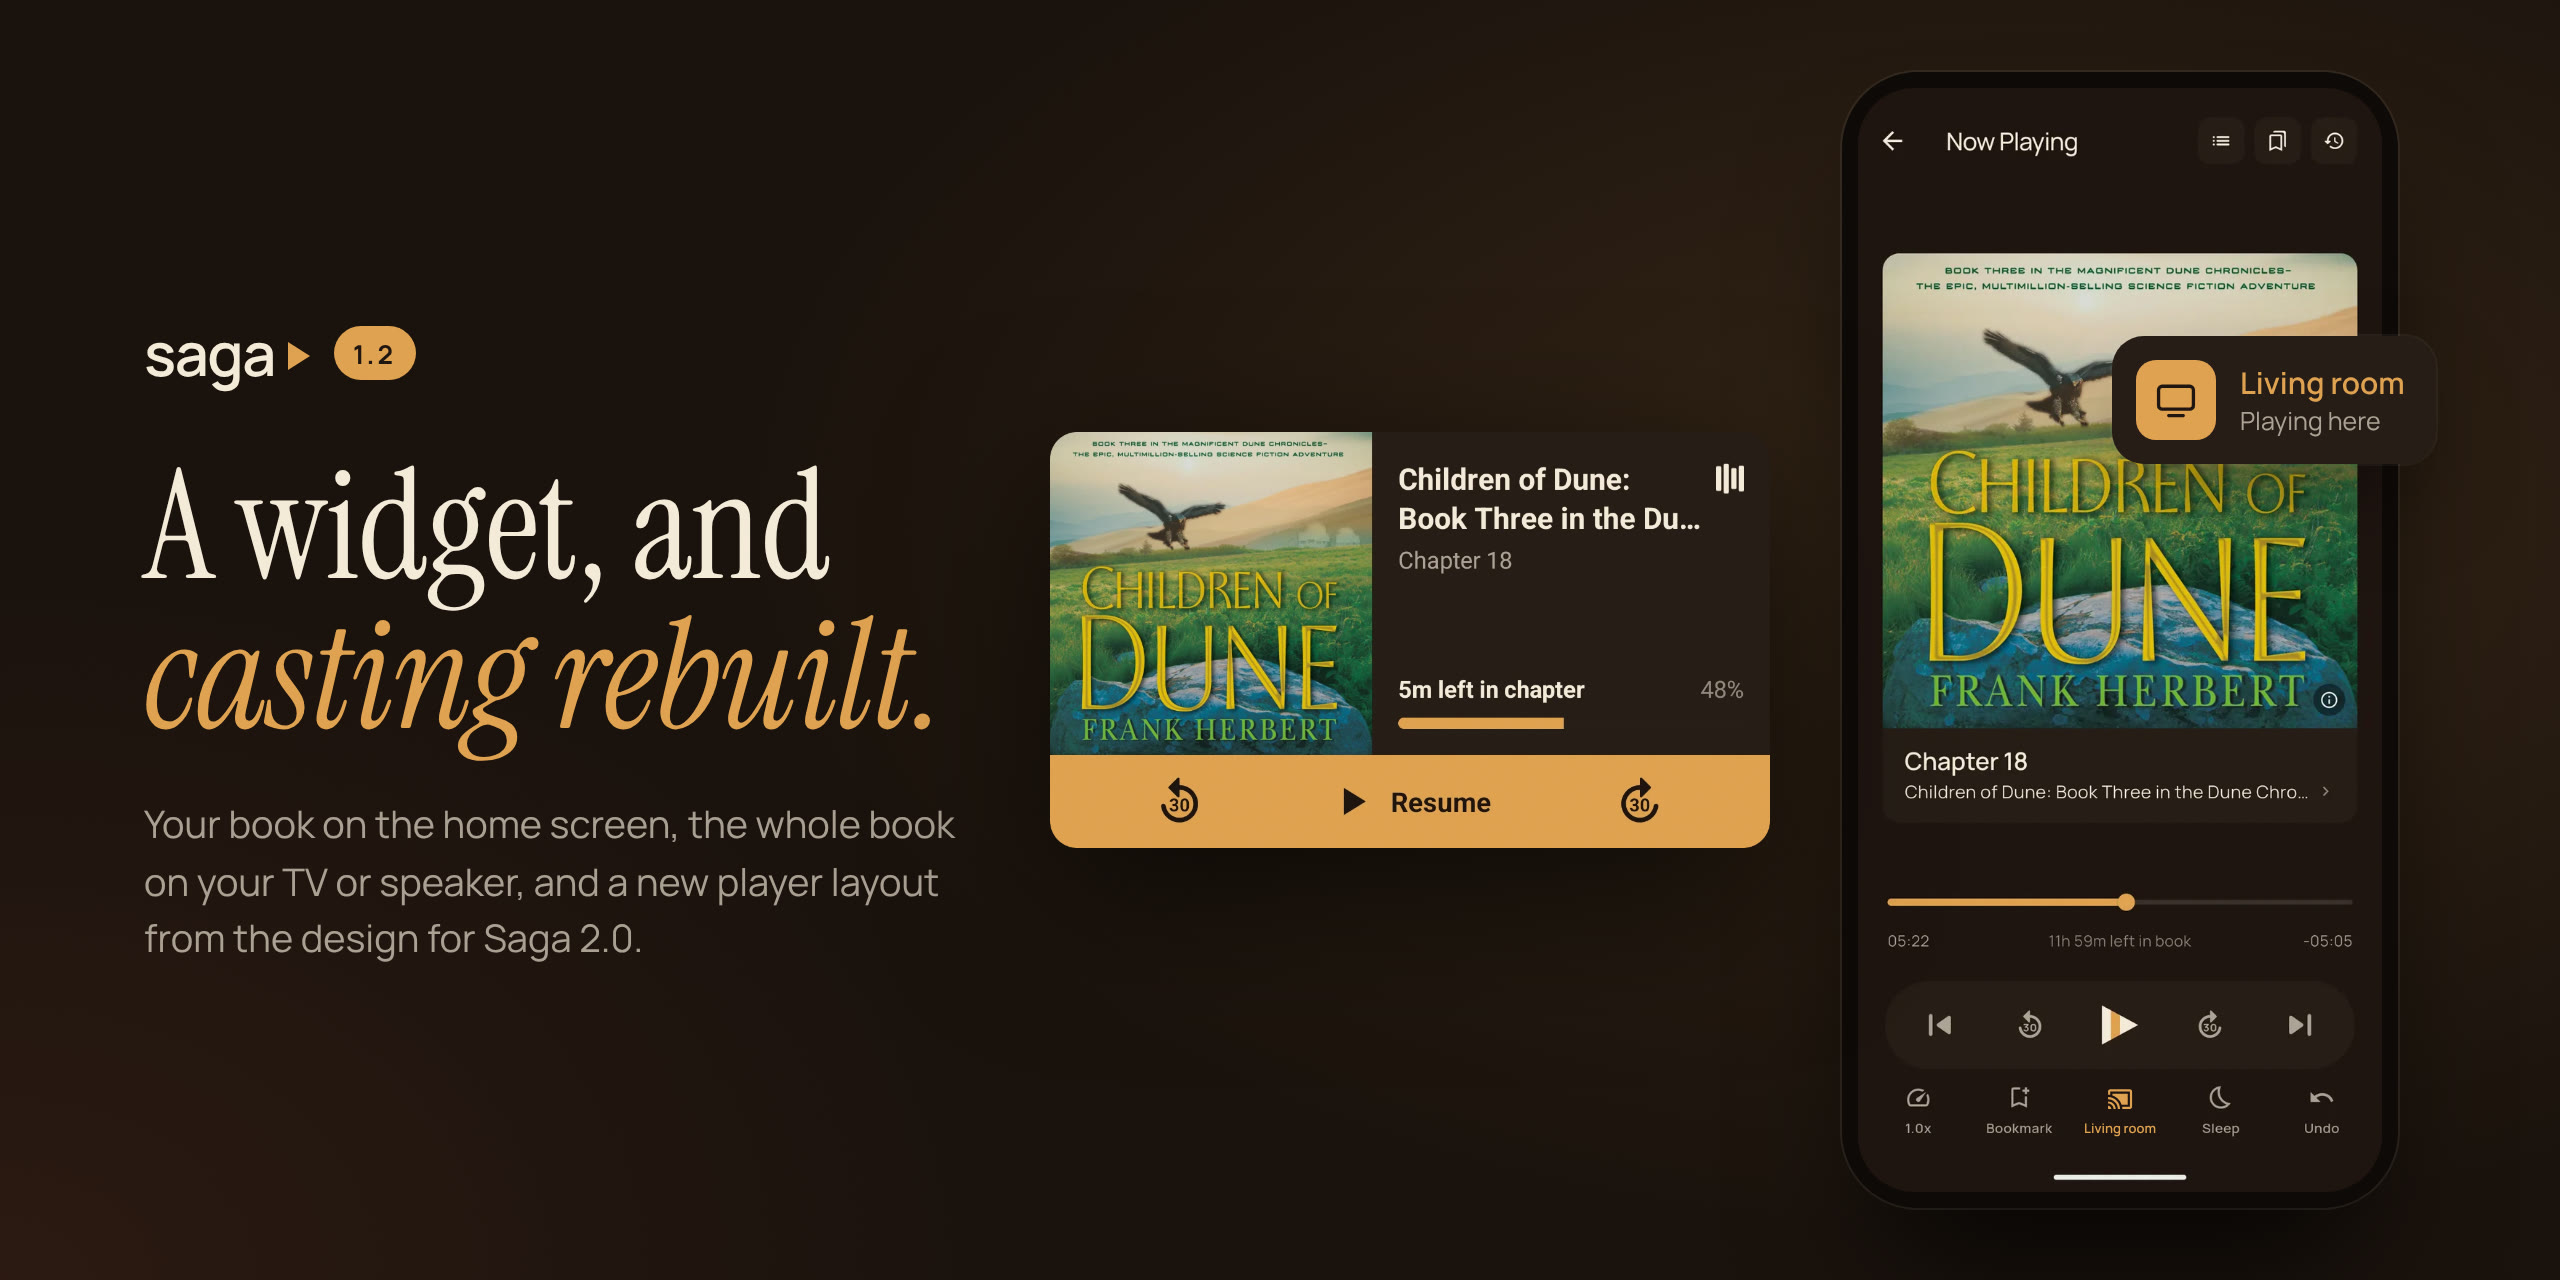
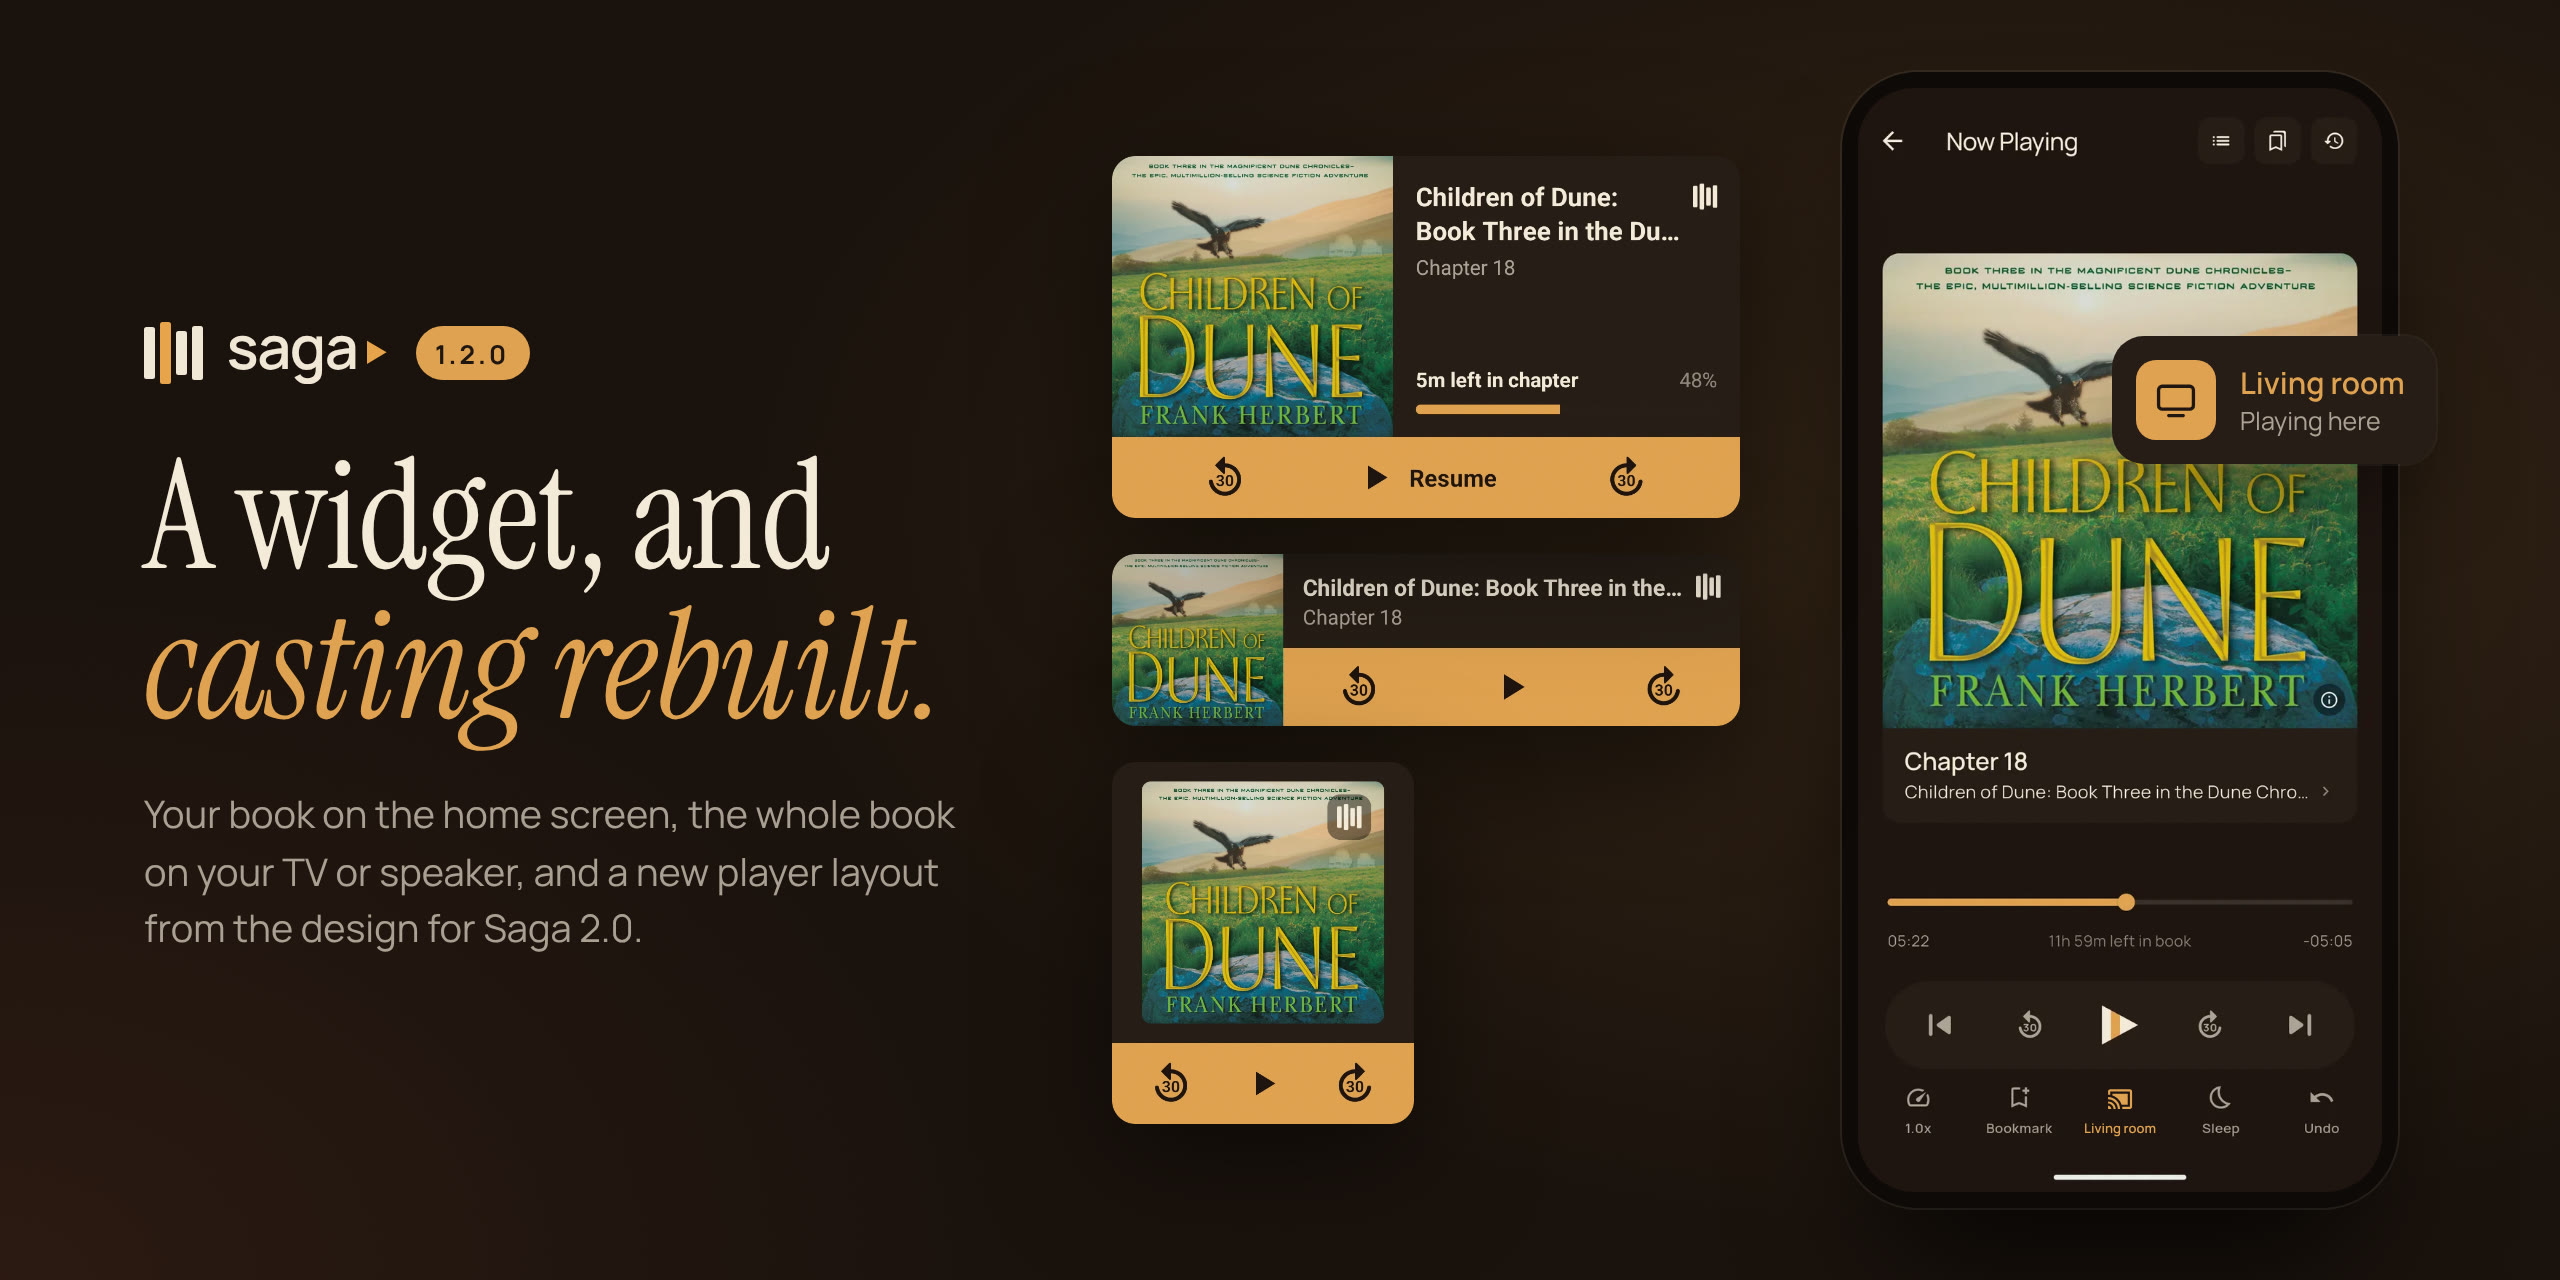
1.2 release image: the widget in all three sizes
Same URL, so the published v1.2.0 notes, which only link to the image,
show the new one as soon as Pages serves it. The alt text in the
changelog names the three sizes; the release's own copy keeps the old
wording, which still describes the image.

diff --git a/CHANGELOG.md b/CHANGELOG.md
@@ -7,7 +7,7 @@ Format follows [Keep a Changelog](https://keepachangelog.com/en/1.0.0/).
 
 ## [1.2.0] - 2026-11-12
 
-![Saga 1.2: a widget, and casting rebuilt. The home-screen widget beside the player, casting to a TV called Living room.](https://saga-app.no/screens/release-1.2-hero.jpg)
+![Saga 1.2: a widget, and casting rebuilt. The home-screen widget in three sizes beside the player, casting to a TV called Living room.](https://saga-app.no/screens/release-1.2-hero.jpg)
 
 **This update brings two big new things: a home-screen widget, and casting rebuilt.** Casting especially depends on your phone, your TV or speaker and your network, and only a few of those combinations have been tried. If something doesn't work as described here, and above all if Saga ever loses your place, please [open an issue](https://github.com/gaut3/saga/issues) and say what happened. Settings → Copy diagnostics puts a log on your clipboard, with your server address and sign-in removed, ready to paste in.
 
